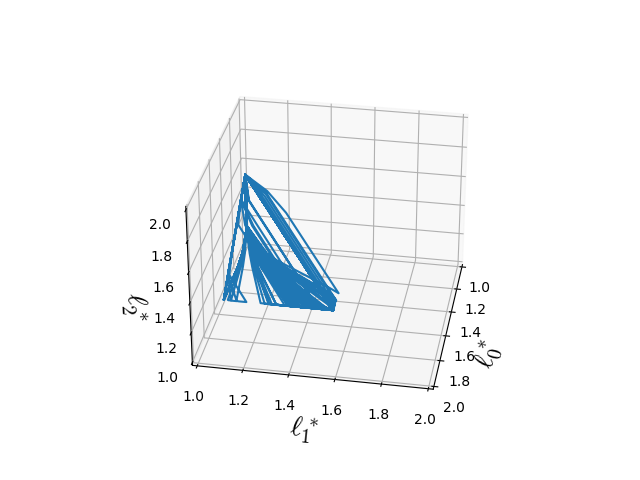
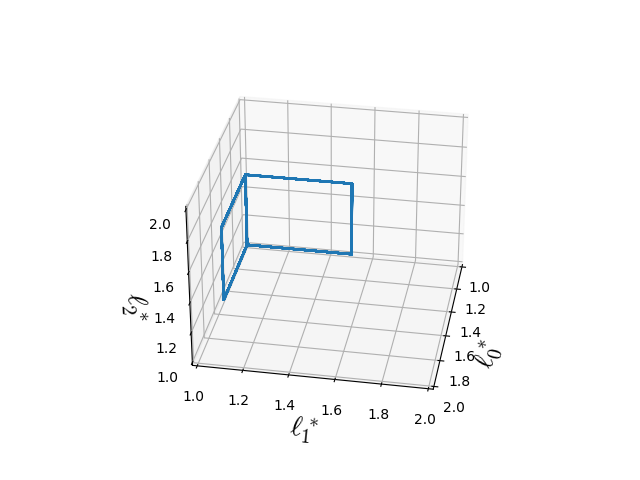
commit

Changed region(s): [[0.3438, 0.3438, 0.5625, 0.6562]]

diff --git a/sim/analysis/arm_length/arm_length_space_triangle.py b/sim/analysis/arm_length/arm_length_space_triangle.py
@@ -17,7 +17,7 @@ def main():
 
     # intervals = np.arange(0.1, 1.0, 0.2)
     # lengths = np.arange(1.1, 2.0, 0.2)
-    intervals = [0.5]
+    intervals = [0.9]
     lengths   = [1.5]
 
     for interval in tqdm(intervals):
